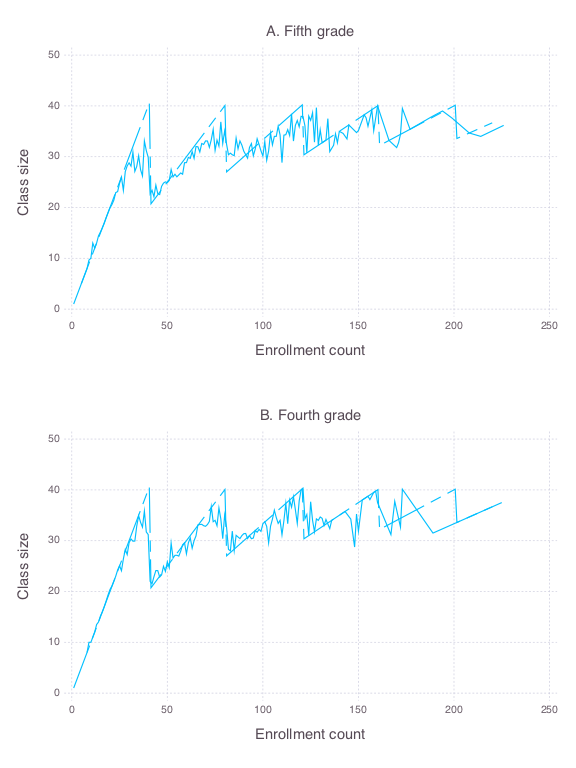
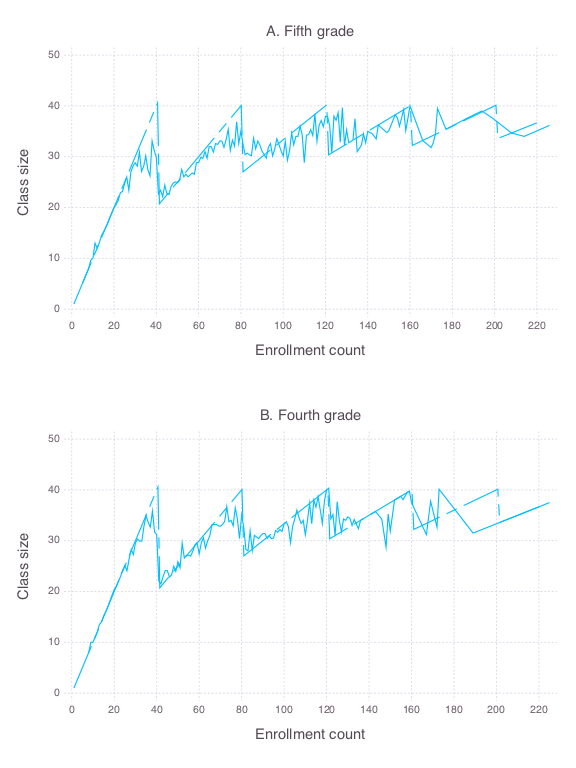
Init Figure 6-2-1.py, add lables to Figure-6-2-1-Julia.png

diff --git a/06 Getting a Little Jumpy/Figure 6-2-1.py b/06 Getting a Little Jumpy/Figure 6-2-1.py
@@ -1,0 +1,52 @@
+#!/usr/bin/env python
+"""
+Create Figure 6.2.1 in MHE
+Tested on Python 3.4
+numpy: math and stat functions, array
+matplotlib: plot figures
+"""
+import numpy as np
+import matplotlib.pyplot as plt
+import pandas as pd
+
+# Download data
+urllib.request.urlretrieve('http://economics.mit.edu/files/1359', 'final4.dta')
+urllib.request.urlretrieve('http://economics.mit.edu/files/1358', 'final5.dta')
+
+# Read the data into a pandas dataframe
+grade4 = pd.read_csv('final4.csv', encoding = 'iso8859_8')
+grade5 = pd.read_csv('final5.csv', encoding = 'iso8859_8')
+
+# Find means class size by grade size
+grade4means = grade4.groupby('c_size')['classize'].mean()
+grade5means = grade5.groupby('c_size')['classize'].mean()
+
+# Create grid and function for Maimonides Rule
+def maimonides_rule(x):
+    return x / (np.floor((x - 1)/40) + 1)
+
+x = np.arange(0, 220, 1)
+
+# Plot figures
+fig = plt.figure()
+
+ax1 = fig.add_subplot(211)
+ax1.plot(grade4means)
+ax1.plot(x, maimonides_rule(x), '--')
+ax1.set_xticks(range(0, 221, 20))
+ax1.set_xlabel("Enrollment count")
+ax1.set_ylabel("Class size")
+ax1.set_title('B. Fourth grade')
+
+ax2 = fig.add_subplot(212)
+ax2.plot(grade5means)
+ax2.plot(x, maimonides_rule(x), '--')
+ax2.set_xticks(range(0, 221, 20))
+ax2.set_xlabel("Enrollment count")
+ax2.set_ylabel("Class size")
+ax2.set_title('A. Fifth grade')
+
+plt.tight_layout()
+plt.savefig('Figure 6-2-1-Python.png', dpi = 300)
+
+# End of script

diff --git a/06 Getting a Little Jumpy/06 Getting a Little Jumpy.md b/06 Getting a Little Jumpy/06 Getting a Little Jumpy.md
@@ -9,6 +9,6 @@ Completed in [Stata](Figure%206-1-1.do), [R](Figure%206-1-1.r), [Python](Figure%
 
 ### Figure 6-2-1
 
-Completed in [Stata](Figure%206-2-1.do), [R](Figure%206-2-1.r) and [Julia](Figure%206-1-1.jl)
+Completed in [Stata](Figure%206-2-1.do), [R](Figure%206-2-1.r), [Python](Figure%206-2-1.py) and [Julia](Figure%206-1-1.jl)
 
 ![Figure 6-2-1 in Julia](Figure 6-2-1-Julia.png)
